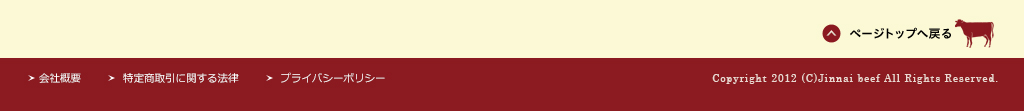
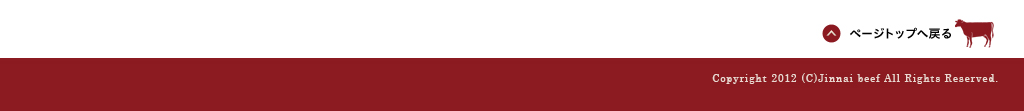
update bai 5 lan 1

diff --git a/Bai_5/Bai_5.html b/Bai_5/Bai_5.html
@@ -7,10 +7,11 @@
 </head>
 <body>
   <div class="container">
-    <img src=images/pic_poster1.jpg>
+    <hr class="container__line"/>
+    <img  src=images/pic_poster1.jpg alt="pic_poster1">
     <ul class="menu-product menu-product-style-1">
       <li>
-        <img src="images/pic_product1.jpg">
+        <img src="images/pic_product1.jpg" alt="pic_product1">
         <img class="btn-click " src="images/btn_clicked.jpg">
       </li>
       <li>
@@ -36,42 +37,65 @@
     <ul class="menu-product menu-product-style-2">
       <li>
         <img src="images/pic_product5.jpg">
+        <a href="#">
         <img class="btn-click" src="images/btn_clicked.jpg">
+        </a>
       </li>
       <li>
         <img src="images/pic_product6.jpg">
+        <a href="#">
         <img class="btn-click" src="images/btn_clicked.jpg">
+        </a>
       </li>
       <li>
         <img src="images/pic_product7.jpg">
+        <a href="#">
         <img class="btn-click btn-click--size" src="images/btn_clicked.jpg">
+        </a>
       </li>
       <li>
         <img src="images/pic_product8.jpg">
+        <a href="#">
         <img class="btn-click btn-click--size" src="images/btn_clicked.jpg">
+        </a>
       </li>
       <ul class="menu-product">
         <li>
           <img src="images/pic_product9.jpg">
-          <a>
+          <a href="#">
             <img class="btn-click btn-click--size" src="images/btn_clicked.jpg">
           </a>
         </li>
         <li>
           <img src="images/pic_product10.jpg">
+          <a href="#">
           <img class="btn-click btn-click--size" src="images/btn_clicked.jpg">
+          </a>
         </li>
         <li>
           <img src="images/pic_product11.jpg">
+          <a href="#">
           <img class="btn-click btn-click--size" src="images/btn_clicked.jpg">
+          </a>
         </li>
         <li>
           <img src="images/pic_product12.jpg">
+          <a href="#">
           <img class="btn-click btn-click--size" src="images/btn_clicked.jpg">
+          </a>
         </li>
       </ul>
     </ul>
     <img src="images/pic_detail.jpg">
+    <div class="footer">
+      <a href="#"><img src="btn_return_home.gif" alt="return home"></a>
+      <ul class="footer__list-menu">
+        <li><a href="#">会社概要</a></li>　　　　
+        <li><a href="#">特定商取引に関する法律</a></li>　　　　
+        <li><a href="#">プライバシーポリシー</a></li>
+      </ul>
+      <p>Copyright 2012 (C) Jinnai beef ALL Rights Reserved.</p>
+    </div>
   </div>
 </body>
 </html>

diff --git a/Bai_5/Bai_5.css b/Bai_5/Bai_5.css
@@ -8,18 +8,21 @@
 
 .container {
   width: 1024px;
-  height: 5770px;
-  overflow: hidden;
+  height: 5902px;
   margin-left: auto;
   margin-right: auto;
   margin-bottom: 133px;
   padding-top: 92px;
-  background-color: yellow;
-  background-image: url("images/bnr_header.jpg"), url("images/pic_footer.jpg");
+  background-image: url("images/bnr_header.jpg"), url("images/pic_back.jpg");
   background-position: top, bottom;
   background-repeat: no-repeat, no-repeat;
-
 }
+
+.container__line {
+  display: block;
+  border: 2.5px solid #b98031;
+}
+
 .menu-product  {
   display: flex;
   flex-wrap: wrap;
@@ -43,5 +46,65 @@ li:nth-child(2n) .btn-click{
 }
 .btn-click:hover {
   content: url("images/btn_click.jpg");
+}
+.footer {
+  height: 111px;
+  width: 100%;
+  padding-right: 5px;
+
+}
+.footer img {
+  float: right;
+  z-index: 5;
+  margin-top: 17px;
+  margin-bottom: 12px;
+  margin-right: 26px;
+  background-color: #8b1a20;
+}
+.footer__list-menu {
+  clear: right;
+  width: 100%;
+  height: 53px;
+  padding-top: 15px;
+  background-color: #8b1a20;
+}
+.footer__list-menu li {
+  display: inline;
+  margin-left: 15px;
+  margin-top: 50px;
+  padding-left: 13px;
+}
+.footer__list-menu li:last-child {
+  margin-left: 23px;
+}
+
+.footer__list-menu li:nth-child(1) {
+  margin-left: 23px;
+}
+
+.footer__list-menu a {
+  font-size: 10px;
+  text-decoration: none;
+  color: #dfc2c4;
+}
+.footer__list-menu a:hover {
+  color: #67fff3;
+}
+.footer p {
+  position: relative;
+  bottom: 38px;
+  left: 705px;
+  display: inline;
+  letter-spacing: .9px;
+  color: #dfc2c4;
+  font-size: 10px;
+  font-family: Century;
+
+
+}
+
+.footer__list-menu li:before {
+  content: url("images/icn_list.png");
+  margin-right: 5px;
 }
 
